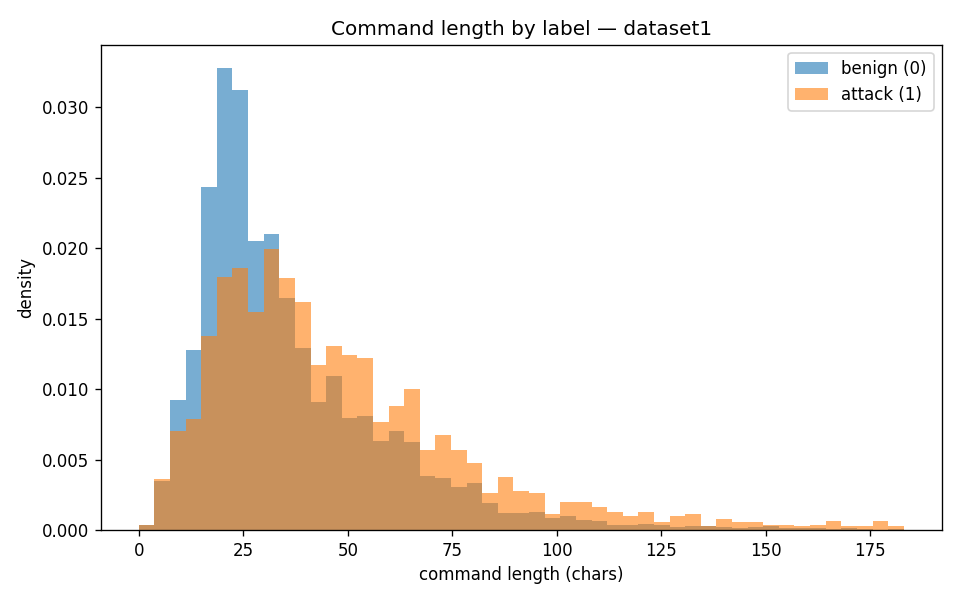
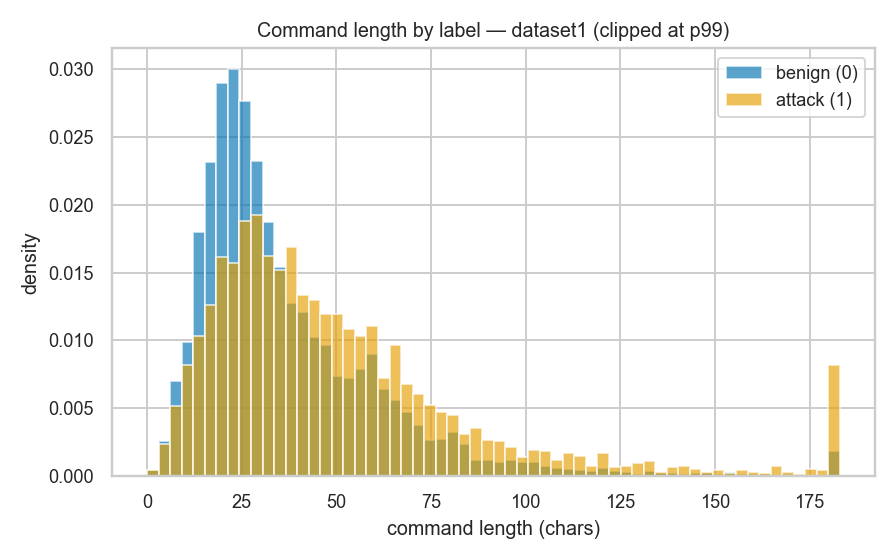
feat: regenerate per-dataset Ch3 EDA figures on the final 43-feature set
The suffixed ch3 figures (9b58ddb) were built on the old 38 features and
their generator was never committed. ch3_eda_figures.py is that generator,
committed and parameterised over both datasets; figures only, findings md
untouched. Variance-by-label now uses symlog (linear axis made everything
past char_count invisible). Adds report/ch3_d2_feature_stats.csv (per-feature
MWU evidence, 35/43 p<0.05) for the D2 EDA write-up.

diff --git a/analysis/ch3_eda_figures.py b/analysis/ch3_eda_figures.py
@@ -1,0 +1,146 @@
+"""
+ch3_eda_figures.py -- regenerate the per-dataset Ch3 EDA figures on the FINAL
+43-feature set (both datasets).
+
+The dataset-suffixed Ch3 figures (ch3_length_hist_*, ch3_variance_by_label_*,
+ch3_corr_heatmap_*) were originally produced ad hoc (commit 9b58ddb) on the old
+38-feature featurize() and their generator was never committed. This script is
+that generator, committed and parameterised, running on the current
+src/features.py. It writes FIGURES ONLY -- it never touches any findings
+markdown (ch3_eda.py owns report/ch3_eda_findings.md).
+
+One deliberate change from the originals: the variance-by-label chart uses a
+symlog y-axis (same convention as ch3_eda.py's variance figure). On a linear
+axis char_count's variance (~10^4) flattens every other bar to invisible.
+
+Outputs, per dataset:
+  report/figures/ch3_length_hist_<dataset>.png
+  report/figures/ch3_variance_by_label_<dataset>.png
+  report/figures/ch3_corr_heatmap_<dataset>.png
+Plus the per-feature evidence table for the Dataset 2 write-up:
+  report/ch3_d2_feature_stats.csv
+
+Run: python analysis/ch3_eda_figures.py
+"""
+from __future__ import annotations
+
+import sys
+from pathlib import Path
+
+import matplotlib
+matplotlib.use("Agg")
+import matplotlib.pyplot as plt
+import numpy as np
+import pandas as pd
+import seaborn as sns
+from scipy.stats import mannwhitneyu
+
+ROOT = Path(__file__).resolve().parent.parent
+sys.path.insert(0, str(ROOT))
+from src import ingestion                           # noqa: E402
+from src.features import FEATURE_NAMES, featurize   # noqa: E402
+
+FIG = ROOT / "report" / "figures"
+REP = ROOT / "report"
+sns.set_theme(style="whitegrid", font_scale=0.85)
+
+# Okabe-Ito benign/attack pair (colorblind-safe, validated)
+C_BENIGN, C_ATTACK = "#0072B2", "#E69F00"
+
+
+def rank_biserial(mal, ben):
+    n1, n2 = len(mal), len(ben)
+    if n1 == 0 or n2 == 0:
+        return 0.0, 1.0
+    U, p = mannwhitneyu(mal, ben, alternative="two-sided")
+    return float(2.0 * U / (n1 * n2) - 1.0), float(p)
+
+
+def length_hist(ds, train):
+    lengths = train["command"].str.len()
+    y = train["label"].to_numpy()
+    hi = float(np.quantile(lengths, 0.99))
+    fig, ax = plt.subplots(figsize=(6.4, 4))
+    for label, color, name in ((0, C_BENIGN, "benign (0)"),
+                               (1, C_ATTACK, "attack (1)")):
+        ax.hist(lengths[y == label].clip(upper=hi), bins=60, range=(0, hi),
+                density=True, alpha=0.65, color=color, label=name)
+    ax.set_xlabel("command length (chars)")
+    ax.set_ylabel("density")
+    ax.set_title(f"Command length by label — {ds} (clipped at p99)")
+    ax.legend()
+    fig.tight_layout()
+    fig.savefig(FIG / f"ch3_length_hist_{ds}.png", dpi=140)
+    plt.close(fig)
+
+
+def variance_by_label(ds, F):
+    mal = F[F.label == 1][FEATURE_NAMES].var()
+    ben = F[F.label == 0][FEATURE_NAMES].var()
+    top = (mal - ben).abs().sort_values(ascending=False).head(15).index
+    x = np.arange(len(top))
+    fig, ax = plt.subplots(figsize=(8.5, 4.2))
+    ax.bar(x - 0.2, ben[top], width=0.4, color=C_BENIGN, label="benign var")
+    ax.bar(x + 0.2, mal[top], width=0.4, color=C_ATTACK, label="attack var")
+    ax.set_yscale("symlog", linthresh=0.01)
+    ax.set_xticks(x)
+    ax.set_xticklabels(top, rotation=45, ha="right", fontsize=7)
+    ax.set_ylabel("variance (symlog)")
+    ax.set_title(f"Per-feature variance by label (top 15 gap) — {ds}")
+    ax.legend()
+    fig.tight_layout()
+    fig.savefig(FIG / f"ch3_variance_by_label_{ds}.png", dpi=140)
+    plt.close(fig)
+
+
+def corr_heatmap(ds, F):
+    corr = F[FEATURE_NAMES].corr()
+    fig, ax = plt.subplots(figsize=(11, 9))
+    sns.heatmap(corr, cmap="coolwarm", center=0, vmin=-1, vmax=1, square=True,
+                cbar_kws={"shrink": 0.5}, ax=ax,
+                xticklabels=True, yticklabels=True)
+    ax.set_title(f"Feature correlation — {ds}")
+    ax.tick_params(labelsize=6)
+    fig.tight_layout()
+    fig.savefig(FIG / f"ch3_corr_heatmap_{ds}.png", dpi=140)
+    plt.close(fig)
+
+
+def d2_stats_table(F):
+    mal = F[F.label == 1]
+    ben = F[F.label == 0]
+    rows = []
+    for f in FEATURE_NAMES:
+        r, p = rank_biserial(mal[f].to_numpy(), ben[f].to_numpy())
+        rows.append({"feature": f,
+                     "mean_malicious": round(float(mal[f].mean()), 4),
+                     "mean_benign": round(float(ben[f].mean()), 4),
+                     "var_malicious": round(float(mal[f].var()), 4),
+                     "var_benign": round(float(ben[f].var()), 4),
+                     "rank_biserial": round(r, 4),
+                     "abs_effect": round(abs(r), 4),
+                     "mwu_p": p})
+    stats = pd.DataFrame(rows).sort_values("abs_effect", ascending=False)
+    stats.to_csv(REP / "ch3_d2_feature_stats.csv", index=False)
+    n_sig = int((stats["mwu_p"] < 0.05).sum())
+    print(f"[ch3-fig] dataset2 evidence table: {n_sig}/{len(stats)} features "
+          f"p<0.05; top effect {stats.iloc[0]['feature']} "
+          f"(r={stats.iloc[0]['rank_biserial']:+.3f})")
+
+
+def main():
+    for ds in ingestion.available_datasets():
+        train, _ = ingestion.load(ds)
+        F = featurize(train["command"])
+        F["label"] = train["label"].to_numpy()
+        print(f"[ch3-fig] {ds}: {len(F)} rows, {len(FEATURE_NAMES)} features")
+        length_hist(ds, train)
+        variance_by_label(ds, F)
+        corr_heatmap(ds, F)
+        if ds == "dataset2":
+            d2_stats_table(F)
+    print("[ch3-fig] wrote 6 figures + report/ch3_d2_feature_stats.csv")
+
+
+if __name__ == "__main__":
+    main()
